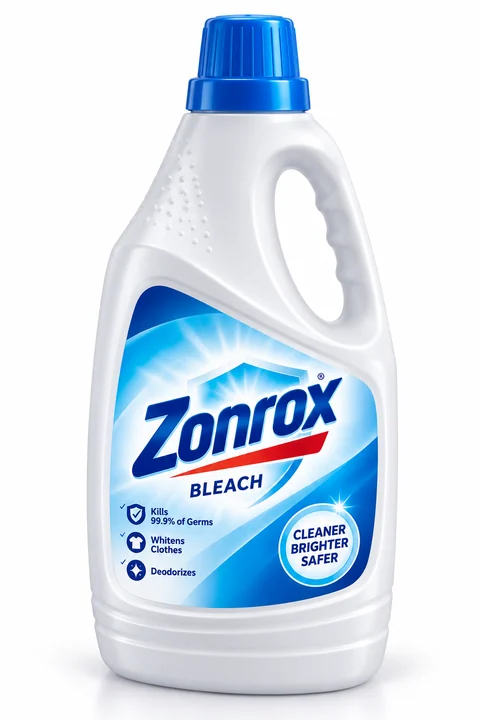
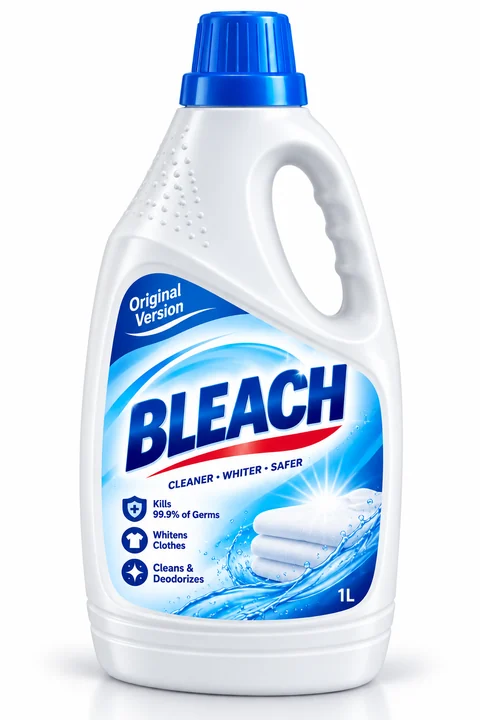
feat(dashboard): v2 built to the UI DESIGN LAYOUT mockups
The design arrived as six state mockups in Sabon UI resources/UI DESIGN LAYOUT.
Applied against them, state by state.

PRODUCT PHOTOS WERE WRONG, and I said twice that they were not.

Slots 5 and 6 were shipping ZONROX-branded artwork while the source files are
BLEACH-branded -- the update that had been reported and that I could not find.
My check was the fault: I compared the source PNGs against hashes I had taken
from those same already-updated files, so of course they matched. I never
compared them against what had actually been encoded. Comparing the shipped
WebP to the current source is the check that works, and it puts slots 5 and 6
at mean 22.7 and 11.2 of 255 -- against ~2 for WebP quantisation on the four
that genuinely had not changed. All six re-encoded; 221KB for the set.

  Product card. The photo sits on a soft tile, as the design draws it -- which
  is what stops six shots taken at different crops from looking ragged. The
  column is proportional rather than a fixed px, with a floor on BOTH sides:
  a flat 130px tile is fine on a 296px card and ruinous on a 234px one, where
  it left the name 56px.

  Dialogs. The ground blurs rather than dims, so the machine's state stays
  readable behind the question -- you can still see what is armed while
  deciding to void it. Buttons are right-aligned and equal width, as drawn,
  not stretched across the dialog.

  Today. A dropdown hung under the chip that opens it, not a centred modal, so
[…]

diff --git a/cashier_dashboard/public/css/v2.css b/cashier_dashboard/public/css/v2.css
@@ -284,10 +284,10 @@ button { font: inherit; color: inherit; }
 .v2-prod {
   position: relative;
   display: grid;
-  /* The photo is what a cashier recognises before reading anything, so it
-     gets real width. At 118px the bottle drew 110px and filled 17% of the
-     card -- the column was the limit, not the artwork. */
-  grid-template-columns: minmax(0, 150px) minmax(0, 1fr);
+  /* Proportional, not a fixed px column. The design gives the photo about
+     45% of the card and the text the rest, so the tile grows with the card
+     instead of stranding white space on a big screen. */
+  grid-template-columns: minmax(0, 0.8fr) minmax(0, 1fr);
   /* Three rows: badge, text, steppers. The badge used to be absolutely
      positioned over the card's top-right, which put it ON TOP of the product
      name -- invisible with "Ready" and a short name, obvious the moment the
@@ -313,7 +313,12 @@ button { font: inherit; color: inherit; }
   touch-action: manipulation;
 }
 /* In the cart, so the card says so without anyone reading the number. */
+/* Two different things, two different colours, as the design has them:
+   BLUE means it is in this cart and nothing has been charged; TEAL means the
+   machine is holding presses the customer has already paid for. Using one
+   colour for both would hide the distinction that matters most. */
 .v2-prod.in-cart { border-color: var(--brand); }
+.v2-prod.is-armed { border-color: #12A5A0; }
 .v2-prod.is-empty { opacity: .55; }
 .v2-prod.is-inactive { opacity: .35; pointer-events: none; }
 
@@ -322,8 +327,14 @@ button { font: inherit; color: inherit; }
   align-self: stretch;
   display: flex; align-items: center; justify-content: center;
   min-width: 0; min-height: 0;
-  padding: 4px;
+  padding: 8px;
   color: var(--brand);
+  /* The tile. The design seats every bottle on the same soft panel, which is
+     what stops six photos shot at different crops from looking ragged --
+     and the artwork is on a near-white ground of its own, so the tile has to
+     be light enough not to show a seam around it. */
+  background: #F6F8FA;
+  border-radius: 14px;
 }
 /* Contained, never cropped -- bottles are tall and a cover fit cuts the caps
    off. */
@@ -550,27 +561,56 @@ button { font: inherit; color: inherit; }
 /* ---------------------------------------------------------------------------
    TODAY PANEL / DIALOG / TOAST
    --------------------------------------------------------------------------- */
-#today-panel {
-  position: fixed; inset: 0; z-index: 50;
-  background: rgba(16, 24, 40, .45);
-  display: flex; align-items: center; justify-content: center;
-  padding: 20px;
+#today-panel { position: fixed; inset: 0; z-index: 50; background: rgba(16, 24, 40, .22); }
+@supports (backdrop-filter: blur(1px)) or (-webkit-backdrop-filter: blur(1px)) {
+  #today-panel {
+    background: rgba(238, 241, 245, .5);
+    -webkit-backdrop-filter: blur(7px) saturate(.9);
+    backdrop-filter: blur(7px) saturate(.9);
+  }
 }
 #today-panel[hidden] { display: none; }
+
+/* Hung under the chip. Absolute inside the fixed backdrop, with top/left set
+   from JS against the chip's rect -- no guessing at header height. */
+.v2-today-card {
+  position: absolute;
+  width: 340px; max-width: calc(100vw - 24px);
+  background: var(--surface);
+  border-radius: 20px;
+  box-shadow: 0 18px 48px rgba(16, 24, 40, .22);
+  overflow: hidden;
+}
+.v2-today-head { padding: 20px 24px 14px; border-bottom: 1px solid var(--line); }
+.v2-today-head h2 { font-family: var(--font-display); font-size: 21px; font-weight: 700; margin: 0; }
+.v2-today-body { padding: 18px 24px 22px; }
+.v2-today-total {
+  font-family: var(--font-display);
+  font-size: 30px; font-weight: 700; color: var(--brand);
+  font-variant-numeric: tabular-nums; line-height: 1.1;
+}
+.v2-today-presses { font-size: 14px; color: var(--ink-2); margin: 2px 0 18px; }
+.v2-today-rows { display: grid; gap: 13px; }
+.v2-today-row {
+  display: grid; grid-template-columns: auto minmax(0, 1fr) auto auto;
+  align-items: center; gap: 12px;
+  font-size: 15px;
+}
+/* A colour per slot, so a row is identifiable at a glance rather than by
+   reading down the list. Slot order, matching the grid. */
+.v2-today-dot { width: 12px; height: 12px; border-radius: 50%; flex: 0 0 auto; }
+.v2-today-name { overflow: hidden; text-overflow: ellipsis; white-space: nowrap; }
+.v2-today-qty { color: var(--ink-2); font-variant-numeric: tabular-nums; }
+.v2-today-pesos {
+  font-weight: 700; font-variant-numeric: tabular-nums;
+  min-width: 56px; text-align: right;
+}
+/* The chevron turns over while the panel is open, as the design shows. */
+.v2-chip-today[aria-expanded="true"] .v2-chev { transform: rotate(180deg); }
+.v2-chev { transition: transform .18s ease; }
 .v2-sheet { width: min(520px, 100%); max-height: 80dvh; overflow-y: auto; padding: 22px; }
 .v2-sheet-head { display: flex; align-items: center; justify-content: space-between; }
 .v2-sheet-head h2 { font-family: var(--font-display); font-size: 20px; margin: 0; }
-.v2-today-total {
-  display: flex; align-items: center; justify-content: space-between;
-  background: var(--brand-tint); border-radius: var(--r-panel);
-  padding: 14px 18px; margin: 14px 0; font-weight: 500;
-}
-.v2-today-rows { display: grid; gap: 8px; }
-.v2-today-row {
-  display: flex; align-items: center; justify-content: space-between; gap: 12px;
-  padding: 10px 14px; border: 1px solid var(--line); border-radius: 12px;
-}
-.v2-today-row span:last-child { font-weight: 600; font-variant-numeric: tabular-nums; }
 .v2-today-empty { color: var(--ink-2); text-align: center; padding: 18px; }
 
 /* ---- settings ------------------------------------------------------------ */
@@ -641,7 +681,21 @@ button { font: inherit; color: inherit; }
 }
 .v2-empty-note { font-size: 14px; color: var(--ink-3); padding: 10px 0; }
 
-#ask-backdrop { position: fixed; inset: 0; z-index: 60; background: rgba(16, 24, 40, .45); }
+/* Blurred, not dimmed. The design pushes the dashboard out of focus rather
+   than darkening it, which keeps the machine's state readable behind the
+   question -- you can still see what is armed while deciding to void it.
+   The flat colour is the fallback where backdrop-filter is unsupported. */
+#ask-backdrop {
+  position: fixed; inset: 0; z-index: 60;
+  background: rgba(16, 24, 40, .28);
+}
+@supports (backdrop-filter: blur(1px)) or (-webkit-backdrop-filter: blur(1px)) {
+  #ask-backdrop {
+    background: rgba(238, 241, 245, .55);
+    -webkit-backdrop-filter: blur(7px) saturate(.9);
+    backdrop-filter: blur(7px) saturate(.9);
+  }
+}
 #ask {
   position: fixed; z-index: 61; left: 50%; top: 50%;
   transform: translate(-50%, -50%);
@@ -651,11 +705,12 @@ button { font: inherit; color: inherit; }
   padding: 22px;
 }
 #ask-backdrop[hidden], #ask[hidden] { display: none; }
-#ask-text { font-size: 16px; font-weight: 500; line-height: 1.45; margin-bottom: 20px; }
-#ask-actions { display: flex; gap: 10px; }
-/* Equal halves, Cancel on the left. Both of this project's confirmations agree
-   on that, so one reflex is right everywhere. */
-#ask-actions .v2-btn { flex: 1 1 0; min-width: 0; min-height: 48px; }
+#ask-text { font-size: 21px; font-weight: 600; line-height: 1.35; margin-bottom: 26px; }
+/* Right-aligned and equal width, as the design draws it -- not stretched to
+   the dialog. Cancel stays on the left of the pair, so the safe button is in
+   the same place it is in the staged-card popup. */
+#ask-actions { display: flex; gap: 12px; justify-content: flex-end; }
+#ask-actions .v2-btn { flex: 0 0 auto; min-width: 148px; min-height: 52px; }
 
 #toast {
   position: fixed; left: 50%; bottom: 26px; transform: translateX(-50%) translateY(8px);
@@ -720,7 +775,11 @@ button { font: inherit; color: inherit; }
   .v2-step-row { grid-column: 1 / -1; grid-row: 3; }
   /* 100px, not 120: at 1181 a 120px photo left the name 82px, which is not
      enough for "Bleach Original" on two lines. */
-  .v2-prod { grid-template-columns: minmax(0, 100px) minmax(0, 1fr); }
+  /* Proportional with a FLOOR on the name, not a fixed photo width. A flat
+     130px tile is fine on a 296px card and ruinous on a 234px one -- it left
+     the name 56px at 1181. The 110px floor means the photo yields first, so
+     the product stays readable at every card width in this band. */
+  .v2-prod { grid-template-columns: minmax(90px, 0.75fr) minmax(100px, 1fr); }
 }
 
 @media (max-width: 1180px) {

diff --git a/cashier_dashboard/public/js/v2.js b/cashier_dashboard/public/js/v2.js
@@ -301,7 +301,10 @@
       let cls = 'v2-prod';
       if (st === 'off') cls += ' is-inactive';
       else if (st === 'empty' || st === 'offline') cls += ' is-empty';
+      // Two different borders for two different things, per the design: blue
+      // for in this cart, teal for presses the machine is already holding.
       if (qty > 0) cls += ' in-cart';
+      else if (st === 'unlocked') cls += ' is-armed';
 
       h += '<div class="' + cls + '" data-slot="' + s + '">'
          + '<div class="v2-badge' + badge.cls + '"><span class="v2-dot"></span>' + badge.label + '</div>'
@@ -879,18 +882,35 @@
     } catch (e) { /* unpriced is a legible state; leave it */ }
   }
 
+  // A colour per slot, in grid order, so a row in the Today list is picked out
+  // by its dot rather than by reading down the names.
+  const SLOT_DOT = { 1: '#1F86FF', 2: '#8B5CF6', 3: '#EC4A73',
+                     4: '#9B5DE5', 5: '#7FC8F8', 6: '#F5B93B' };
+
   async function loadToday() {
     try {
       const d = await (await fetch('/api/sales/today')).json();
       const pesos = d.pesos || 0;
       $('kpi-today').textContent = '₱' + pesos;
       $('today-pesos').textContent = '₱' + pesos;
+      $('today-presses').textContent = d.presses || 0;
 
-      const rows = (d.products || []).slice().sort((a, b) => (b.pesos || 0) - (a.pesos || 0));
-      $('today-rows').innerHTML = rows.length
-        ? rows.map((r) => '<div class="v2-today-row"><span>' + esc(r.name || '')
-            + '</span><span>₱' + (r.pesos || 0) + '</span></div>').join('')
-        : '<div class="v2-today-empty">Nothing sold yet today.</div>';
+      // Every slot, in slot order, including the ones that sold nothing -- the
+      // zeroes are the point. A list that hides them makes "nothing sold" look
+      // the same as "that product is missing from the report".
+      const bySlot = {};
+      (d.products || []).forEach((r) => { if (r.slot) bySlot[r.slot] = r; });
+      let h = '';
+      for (let s = 1; s <= ACTIVE; s++) {
+        const r = bySlot[s] || {};
+        h += '<div class="v2-today-row">'
+           + '<span class="v2-today-dot" style="background:' + (SLOT_DOT[s] || '#98A2B3') + '"></span>'
+           + '<span class="v2-today-name">' + esc(r.name || PRODUCT[s]) + '</span>'
+           + '<span class="v2-today-qty">x' + (r.presses || 0) + '</span>'
+           + '<span class="v2-today-pesos">₱' + (r.pesos || 0) + '</span>'
+           + '</div>';
+      }
+      $('today-rows').innerHTML = h;
     } catch (e) { /* leave the last known figure rather than blanking it */ }
   }
 
@@ -933,10 +953,22 @@
 
     $('offline-retry').addEventListener('click', () => location.reload());
 
-    // Today panel
+    // Today dropdown. Hung under the chip that opens it, so the figure and the
+    // detail behind it are visibly the same control.
+    function placeToday() {
+      const chip = $('chip-today').getBoundingClientRect();
+      const card = $('today-card');
+      card.style.top = Math.round(chip.bottom + 10) + 'px';
+      // Left-aligned to the chip, then pulled back if that would run the card
+      // off the right edge -- which it does on a narrow screen.
+      const w = card.offsetWidth || 340;
+      const left = Math.min(chip.left, window.innerWidth - w - 12);
+      card.style.left = Math.round(Math.max(12, left)) + 'px';
+    }
     const openToday = () => {
       loadToday();
       $('today-panel').hidden = false;
+      placeToday();
       $('chip-today').setAttribute('aria-expanded', 'true');
     };
     const closeToday = () => {
@@ -944,10 +976,11 @@
       $('chip-today').setAttribute('aria-expanded', 'false');
     };
     $('chip-today').addEventListener('click', openToday);
-    $('btn-today-close').addEventListener('click', closeToday);
     $('today-panel').addEventListener('click', (ev) => {
       if (ev.target === $('today-panel')) closeToday();   // the backdrop only
     });
+    // A dropdown pinned to a rect has to follow that rect.
+    window.addEventListener('resize', () => { if (!$('today-panel').hidden) placeToday(); });
     document.addEventListener('keydown', (ev) => {
       if (ev.key !== 'Escape') return;
       // Innermost first, so Escape does not shut the sheet behind a dialog.

diff --git a/cashier_dashboard/public/v2.html b/cashier_dashboard/public/v2.html
@@ -163,19 +163,17 @@
   </main>
 
   <!-- ================== TODAY PANEL ================== -->
+  <!-- A dropdown hung under the Today chip, not a centred modal -- the design
+       ties the figure to the control that opens it. Position is set from JS
+       against the chip's own rect, so it stays put at any width. -->
   <div id="today-panel" hidden>
-    <div class="v2-card v2-sheet">
-      <div class="v2-sheet-head">
-        <h2>Today</h2>
-        <button id="btn-today-close" class="v2-icon-btn" type="button" aria-label="Close">
-          <svg viewBox="0 0 24 24" fill="none" stroke="currentColor" stroke-width="2.2"
-               stroke-linecap="round"><path d="M6 6l12 12M18 6L6 18"/></svg>
-        </button>
+    <div class="v2-today-card" id="today-card" role="dialog" aria-label="Today's sales">
+      <div class="v2-today-head"><h2>Today&rsquo;s Sales</h2></div>
+      <div class="v2-today-body">
+        <div class="v2-today-total" id="today-pesos">&#8369;0</div>
+        <div class="v2-today-presses"><span id="today-presses">0</span> presses</div>
+        <div id="today-rows" class="v2-today-rows"></div>
       </div>
-      <div class="v2-today-total">
-        <span>Takings</span><span class="v2-total-money" id="today-pesos">&#8369;0</span>
-      </div>
-      <div id="today-rows" class="v2-today-rows"></div>
     </div>
   </div>
 
